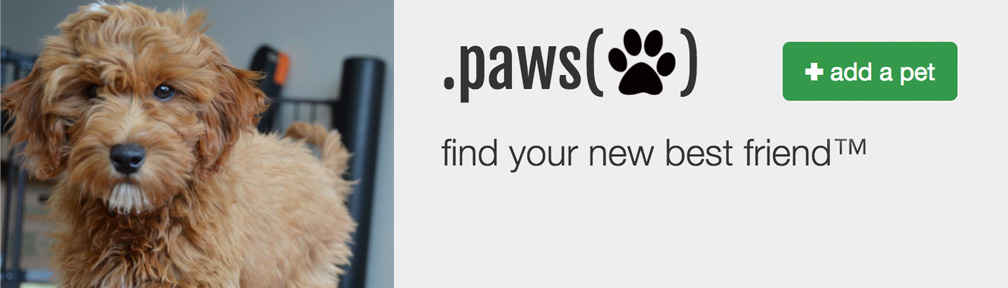
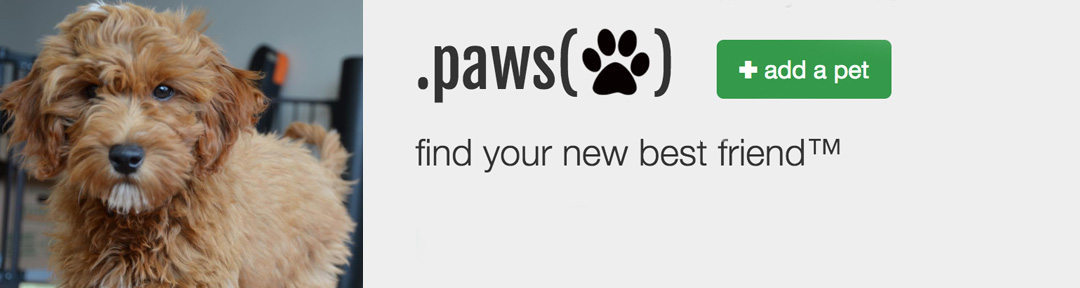
changed paw spread

diff --git a/style.css b/style.css
@@ -63,23 +63,21 @@ hr {
 
 #carousel-item-one {
 	background: url('assets/images/paws-spread.jpg');
-	position: center;
-	background-size: 100% 100%;
+	/*background-position: center;*/
+	background-size: cover;
 }
 #carousel-item-two {
 	font-family: 'Poppins', sans-serif;
 	background: url('assets/images/trekkster.jpg');
-	position: center;
-	background-size: 100% 100%;
+	background-position: center;
+	background-size: cover;
 }
 #carousel-item-three {
 	background: url('assets/images/stork-spread.jpg');
-	position: center;
 	background-size: cover;
 }
 #carousel-item-four {
 	background: url('assets/images/blackbeard.jpg');
-	position: center;
 	background-size: cover;
 }
 
